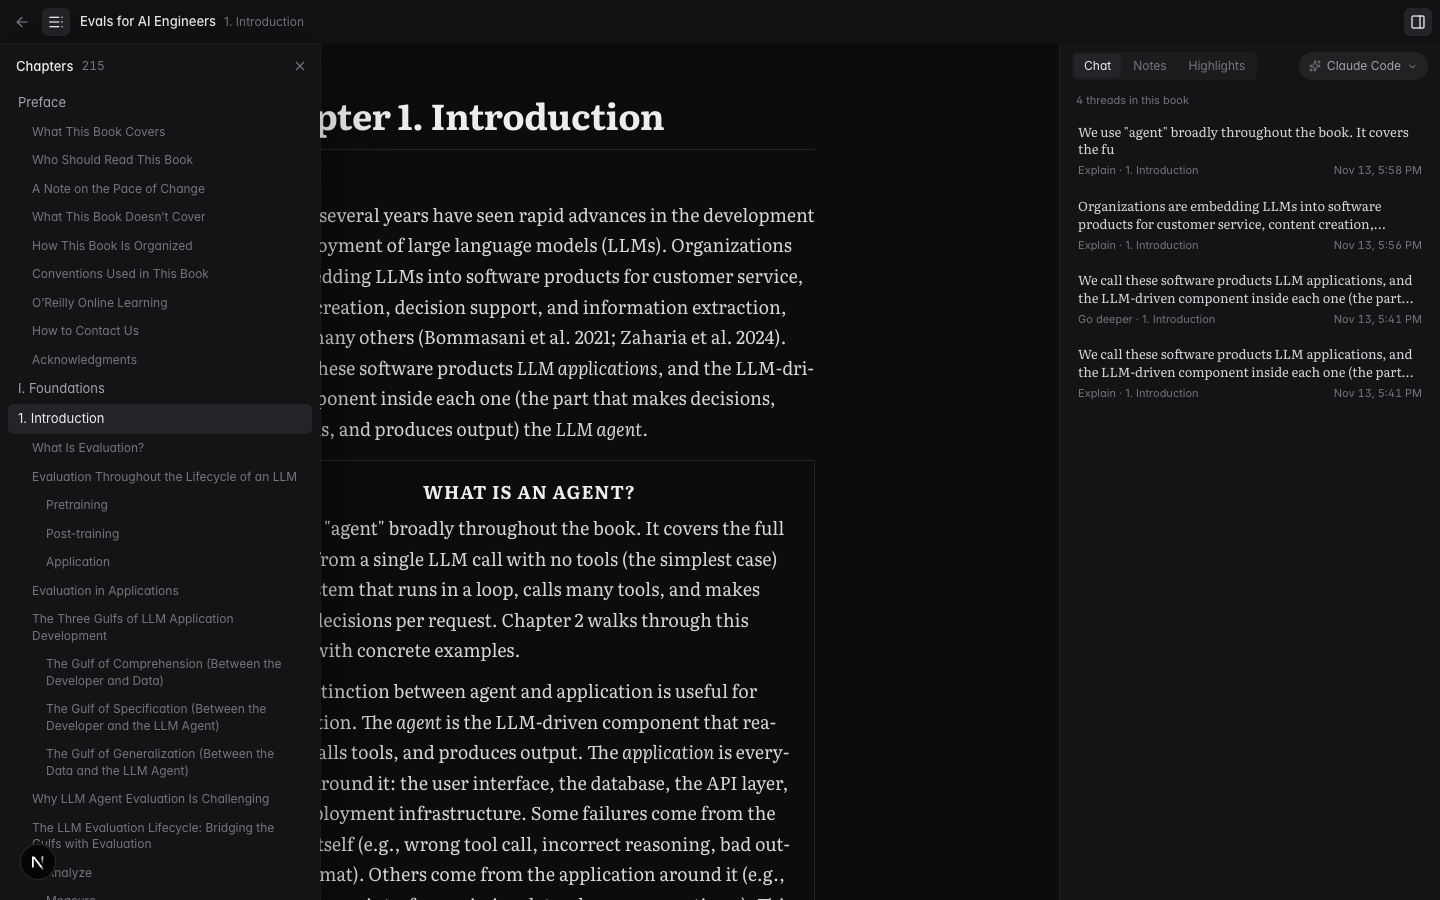
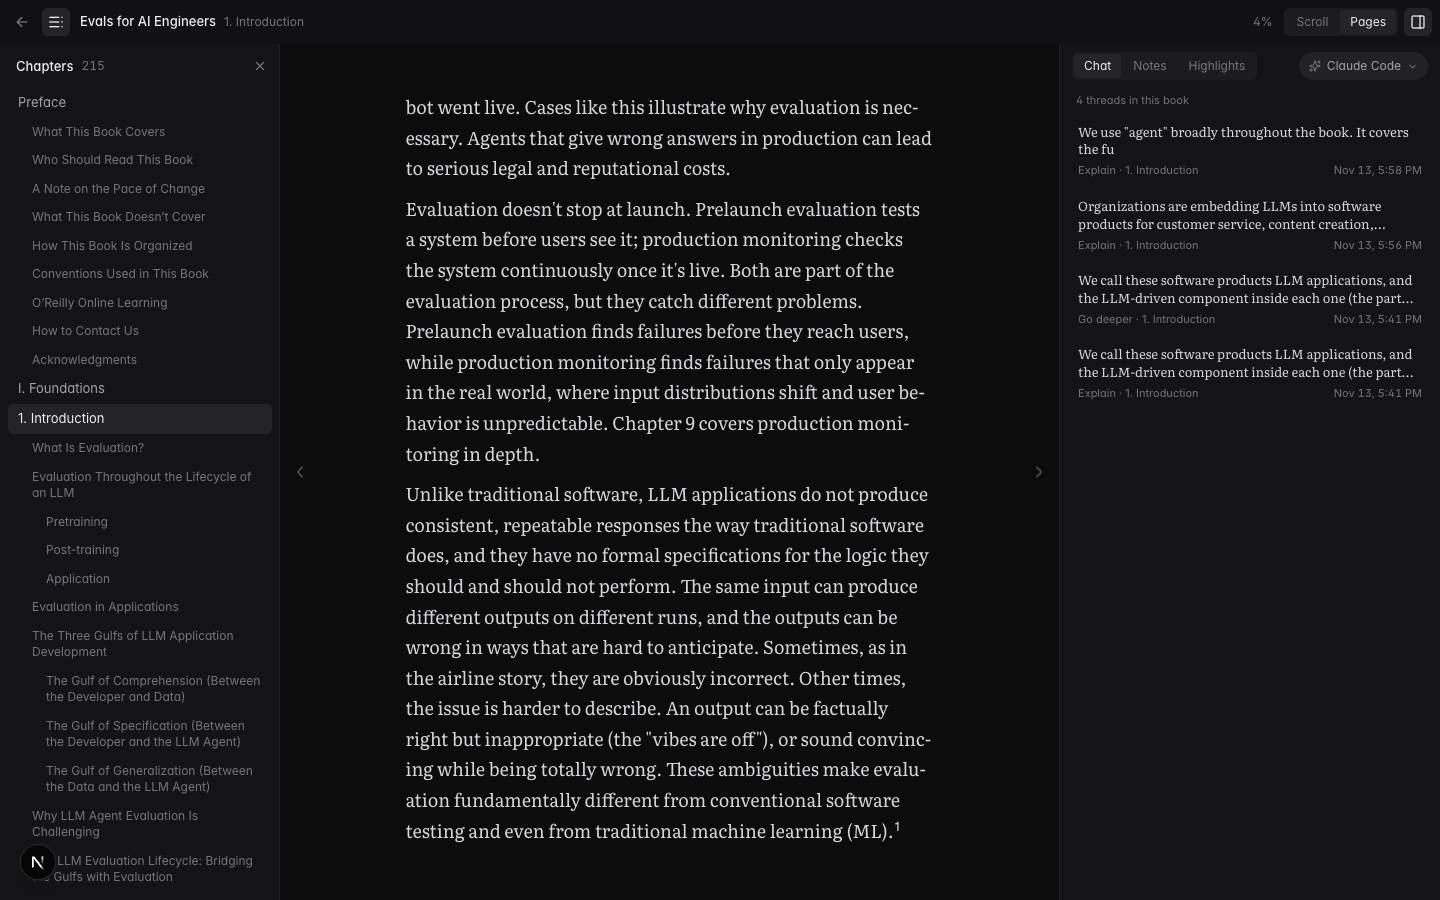
Show the chapters column and the light page in the README

Changed region(s): [[0.1875, 0.0933, 0.6562, 0.9956], [0.0, 0.5289, 0.1875, 1.0], [0.9375, 0.0, 0.9688, 0.0311]]

diff --git a/README.md b/README.md
@@ -10,9 +10,11 @@ The app runs on your own computer. Your books stay there.
 
 ![Reading in Pages view, with the selection toolbar and the tutor panel](docs/screenshots/reader.png)
 
-| Chapters | PDF with highlights and a note |
+| Chapters beside the book | PDF with highlights and a note |
 | --- | --- |
 | ![Chapters drawer](docs/screenshots/chapters.png) | ![A dark PDF page with highlights and a note](docs/screenshots/pdf-notes.png) |
+
+![The light page for EPUBs, with a highlight and a selection](docs/screenshots/light-page.png)
 
 ## What you need
 
